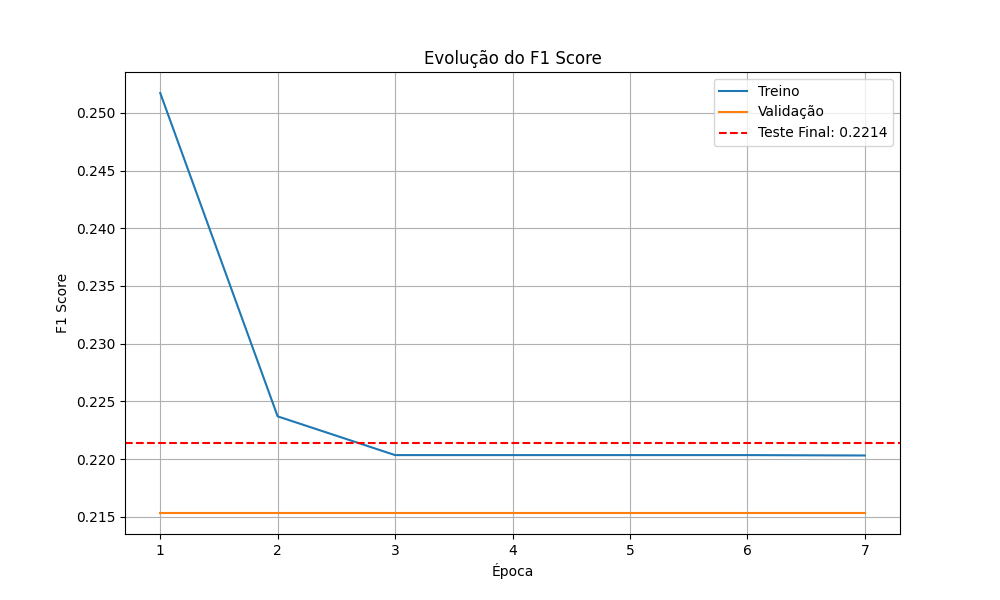
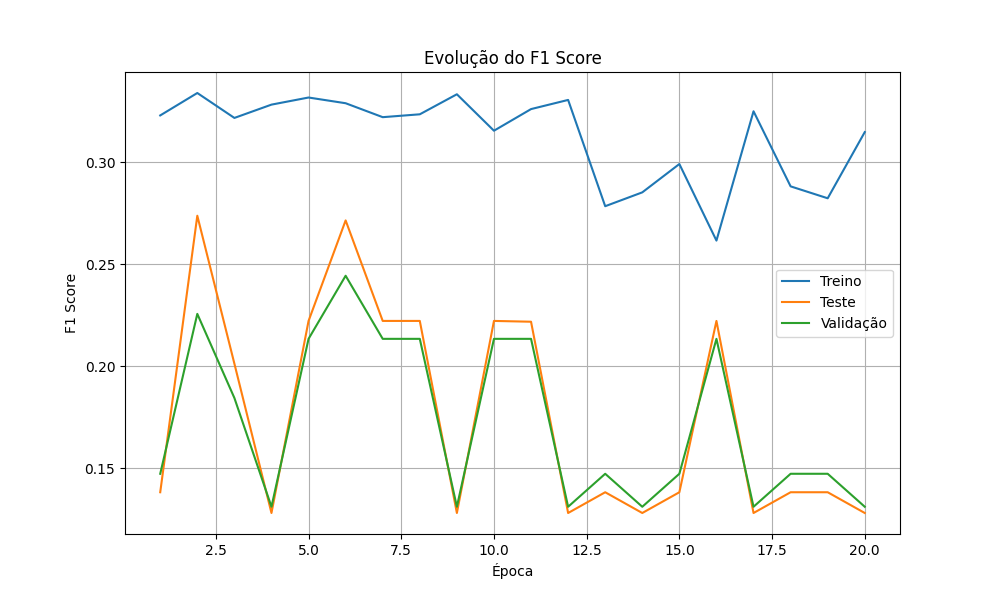
lstm 49% acc

diff --git a/models/train.py b/models/train.py
@@ -43,23 +43,52 @@ import torch.nn as nn
 import torch.nn.functional as F
 
 class FocalLoss(nn.Module):
-    def __init__(self, alpha=1.0, gamma=2.0, reduction='mean'):
+    def __init__(self, alpha=None, gamma=2.0, reduction='mean'):
         super().__init__()
-        self.alpha = alpha
+        # Recebe uma lista de pesos e converte para tensor
+        if alpha is None:
+            self.alpha = None
+        else:
+            self.alpha = torch.tensor(alpha, dtype=torch.float32)
+            
         self.gamma = gamma
         self.reduction = reduction
 
     def forward(self, inputs, targets):
-        # inputs: logits brutos da rede
-        # targets: labels verdadeiros (podem ser índices ou One-Hot)
+        # inputs: logits brutos da rede [batch_size, num_classes]
+        # targets: labels verdadeiros (índices ou One-Hot)
+
+        # 1. Tratar alvos One-Hot (necessário para buscar o peso correto de cada linha)
+        if targets.ndim > 1 and targets.shape[1] == inputs.shape[1]:
+            targets_indices = torch.argmax(targets, dim=1)
+        else:
+            targets_indices = targets
+
+        # 2. Cross Entropy pura (SEM pesos) para extrair p_t perfeitamente
         ce_loss = F.cross_entropy(inputs, targets, reduction='none')
         pt = torch.exp(-ce_loss)
-        focal_loss = self.alpha * (1 - pt) ** self.gamma * ce_loss
+        
+        # 3. Cálculo base da Focal Loss
+        focal_loss = (1 - pt) ** self.gamma * ce_loss
 
+        # 4. Aplicação do vetor Alpha (Pesos das Classes)
+        if self.alpha is not None:
+            # Garante que o tensor de pesos esteja na mesma memória (CPU ou GPU) que os dados
+            if self.alpha.device != inputs.device:
+                self.alpha = self.alpha.to(inputs.device)
+            
+            # Coleta o peso específico para cada exemplo do lote
+            alpha_t = self.alpha[targets_indices]
+            
+            # Multiplica a perda pelo peso da classe
+            focal_loss = alpha_t * focal_loss
+
+        # 5. Redução final
         if self.reduction == 'mean':
             return focal_loss.mean()
         elif self.reduction == 'sum':
             return focal_loss.sum()
+        
         return focal_loss
 
 
@@ -280,21 +309,22 @@ def train_model(
         dropout=dropout,
     ).to(runtime_device)
 
+    pesos_classes = [1.248, 0.675, 1.393]
     if model_type == "classifier":
         model = LSTMClassifier(backbone=backbone, hidden_size=hidden_size, dropout=dropout).to(runtime_device)
-        criterion = FocalLoss(alpha=1.0, gamma=2.0, reduction='mean')
+        criterion = FocalLoss(alpha=pesos_classes, gamma=3.0, reduction='mean')
         #nn.CrossEntropyLoss(weight=torch.tensor([1.3, 0.7, 1.4], device=runtime_device), label_smoothing=0.4)  # Pesos iguais para as classes
     else:
         model = LSTMRegressor(backbone=backbone, hidden_size=hidden_size, dropout=dropout).to(runtime_device)
         criterion = nn.SmoothL1Loss(beta=2)#nn.PoissonNLLLoss(log_input=True)
 
     optimizer = torch.optim.AdamW(model.parameters(), lr=learning_rate, weight_decay=5e-2)
-    scheduler = torch.optim.lr_scheduler.ReduceLROnPlateau(optimizer, mode="min", patience=4, factor=0.5)
+    scheduler = torch.optim.lr_scheduler.ReduceLROnPlateau(optimizer, mode="min", patience=10, factor=0.5)
     use_amp = runtime_device.type == "cuda"
     scaler = torch.cuda.amp.GradScaler(enabled=use_amp)
 
     history: list[dict[str, Any]] = []
-    best_validation_loss = 0#float("inf")
+    best_test_performance = 0
     prev_train_loss = float("inf")
     best_state_dict: dict[str, torch.Tensor] | None = None
     best_epoch = 0
@@ -419,8 +449,8 @@ def train_model(
             }
         )
 
-        if test_metrics.accuracy > best_validation_loss:
-            best_validation_loss = test_metrics.accuracy
+        if test_metrics.accuracy > best_test_performance:
+            best_test_performance = test_metrics.accuracy
             best_state_dict = {name: tensor.detach().cpu() for name, tensor in model.state_dict().items()}
             best_epoch = epoch
             best_test_metrics = test_metrics
@@ -484,10 +514,19 @@ def train_model(
         criterion=criterion,
     )
 
+    validation_metrics = _compute_epoch_metrics(
+        model=model,
+        model_type=model_type,
+        loader=bundle.validation_loader,
+        device=runtime_device,
+        criterion=criterion,
+    )
+
     result: dict[str, Any] = {
         "model": model,
         "history": history,
         "test_metrics": asdict(test_metrics),
+        "validation_metrics": asdict(validation_metrics),
         "best_epoch": best_epoch,
         "best_test_metrics": asdict(best_test_metrics) if best_test_metrics is not None else None,
         "validation_predictions_path": str(validation_predictions_path),
@@ -521,21 +560,21 @@ def plot_metrics(output: dict[str, Any], save_dir: Path) -> None:
     
     train_loss = [h["train"]["loss"] for h in history]
     val_loss = [h["validation"]["loss"] for h in history]
-    test_loss = test_metrics["loss"]
+    test_loss = [h['test']['loss'] for h in history]
     
     train_acc = [h["train"]["accuracy"] for h in history]
     val_acc = [h["validation"]["accuracy"] for h in history]
-    test_acc = test_metrics["accuracy"]
+    test_acc = [h['test']['accuracy'] for h in history]
     
     train_f1 = [h["train"]["f1_score"] for h in history]
     val_f1 = [h["validation"]["f1_score"] for h in history]
-    test_f1 = test_metrics["f1_score"]
+    test_f1 = [h['test']['f1_score'] for h in history]
     
     # Plot Loss
     plt.figure(figsize=(10, 6))
     plt.plot(epochs, train_loss, label="Treino")
+    plt.plot(epochs, test_loss, label="Teste")
     plt.plot(epochs, val_loss, label="Validação")
-    plt.axhline(y=test_loss, color='r', linestyle='--', label=f"Teste Final: {test_loss:.4f}")
     plt.xlabel("Época")
     plt.ylabel("Loss")
     plt.title("Evolução da Loss (Perda)")
@@ -547,8 +586,8 @@ def plot_metrics(output: dict[str, Any], save_dir: Path) -> None:
     # Plot Accuracy
     plt.figure(figsize=(10, 6))
     plt.plot(epochs, train_acc, label="Treino")
+    plt.plot(epochs, test_acc, label="Teste")
     plt.plot(epochs, val_acc, label="Validação")
-    plt.axhline(y=test_acc, color='r', linestyle='--', label=f"Teste Final: {test_acc:.4f}")
     plt.xlabel("Época")
     plt.ylabel("Acurácia")
     plt.title("Evolução da Acurácia")
@@ -560,8 +599,8 @@ def plot_metrics(output: dict[str, Any], save_dir: Path) -> None:
     # Plot F1 Score
     plt.figure(figsize=(10, 6))
     plt.plot(epochs, train_f1, label="Treino")
+    plt.plot(epochs, test_f1, label="Teste")
     plt.plot(epochs, val_f1, label="Validação")
-    plt.axhline(y=test_f1, color='r', linestyle='--', label=f"Teste Final: {test_f1:.4f}")
     plt.xlabel("Época")
     plt.ylabel("F1 Score")
     plt.title("Evolução do F1 Score")
@@ -572,7 +611,7 @@ def plot_metrics(output: dict[str, Any], save_dir: Path) -> None:
 
 
 def main() -> None:
-    output = train_model(epochs=10000, sequence_length=5, batch_size=32, hidden_size=256,
+    output = train_model(epochs=5000, sequence_length=3, batch_size=8, hidden_size=32,
                          num_layers=2, dropout=0.4, learning_rate=1e-3, model_type="classifier",
                          save_path=Path(__file__).resolve().parents[0] / "checkpoints" / "lstm_checkpoint.pth",
                          best_model_path=Path(__file__).resolve().parents[0] / "checkpoints" / "lstm_best.pth",
@@ -583,6 +622,7 @@ def main() -> None:
 
     print("Dispositivo:", output["device"])
     print("Métricas de teste:", output["test_metrics"])
+    print("Métricas de validação:", output["validation_metrics"])
     print("Melhor época:", output["best_epoch"])   
     
     plots_dir = Path(__file__).resolve().parents[0] / "plots"
